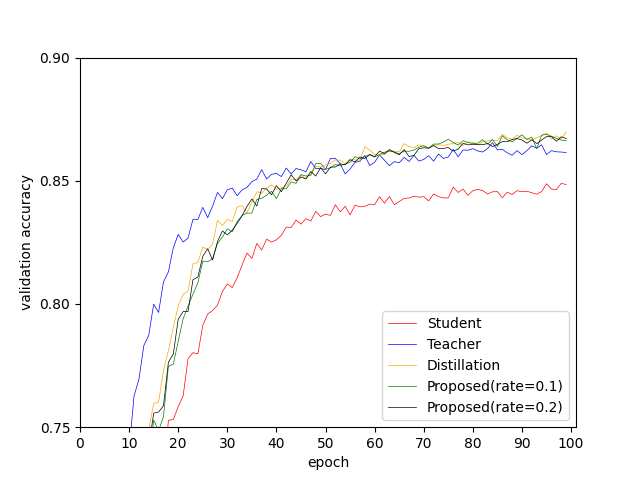
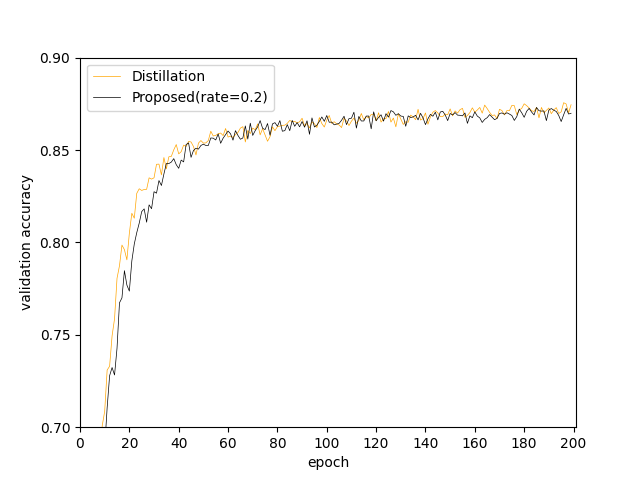
cam-distillation

diff --git a/resnet_train_cam.py b/resnet_train_cam.py
@@ -15,12 +15,12 @@ from src.kd_loss.cam_loss import CAMLoss
 import pickle
 
 def main():
-    for i in range(5):
-        cam_rate = '02'
-        epochs = 100
+    for i in range(3):
+        # cam_rate = '01'
+        epochs = 200
         batch_size = 128
-        np.random.seed(i)
-        torch.manual_seed(i)
+        np.random.seed(0)
+        torch.manual_seed(0)
         device = torch.device('cuda' if torch.cuda.is_available() else 'cpu')
         
         data_dir = './data/cifar10'
@@ -39,24 +39,24 @@ def main():
         teacher = resnet_teacher().to(device)
         student = resnet_student().to(device)
         
-        teacher.load_state_dict(torch.load('./logs/resnet/teacher/' + str(i) + '.pth')) # 変更
+        teacher.load_state_dict(torch.load('./logs/resnet/teacher/' + str(0) + '.pth')) # 変更箇所
         loss_fn = nn.CrossEntropyLoss() 
         student_hist = {'loss': [], 'accuracy': [], 'val_loss': [], 'val_accuracy': []}
         
         # teacher test
-        teacher.eval()
-        test_loss = 0.
-        test_acc = 0.
-        with torch.no_grad():
-            for (images,labels) in test_dataloader:
-                images, labels = images.to(device), labels.to(device)
-                preds, _ = teacher(images)
-                loss = loss_fn(preds, labels)
-                test_loss += loss.item()
-                test_acc += accuracy_score(labels.tolist(), preds.argmax(dim=-1).tolist())
-        test_loss /= len(test_dataloader)
-        test_acc /= len(test_dataloader)
-        print(f'test_loss: {test_loss:.3f}, test_accuracy: {test_acc:.3f}')
+        # teacher.eval()
+        # test_loss = 0.
+        # test_acc = 0.
+        # with torch.no_grad():
+        #     for (images,labels) in test_dataloader:
+        #         images, labels = images.to(device), labels.to(device)
+        #         preds, _ = teacher(images)
+        #         loss = loss_fn(preds, labels)
+        #         test_loss += loss.item()
+        #         test_acc += accuracy_score(labels.tolist(), preds.argmax(dim=-1).tolist())
+        # test_loss /= len(test_dataloader)
+        # test_acc /= len(test_dataloader)
+        # print(f'test_loss: {test_loss:.3f}, test_accuracy: {test_acc:.3f}')
         
         # train
         optim = optimizers.Adam(student.parameters())
@@ -74,16 +74,29 @@ def main():
                 images, labels = images.to(device), labels.to(device)
                 preds, student_features = student(images)
                 targets, teacher_features = teacher(images)
-        
-                student_cam = create_student_cam(student, images, labels, student_features, batch_size, device)
-                teacher_cam = create_teacher_cam(teacher, images, labels, teacher_features, batch_size, device)
                 
-                if cam_rate == '01':
+                if i == 0:   # Distillation
+                    loss = 0.5*loss_fn(preds, labels) + 0.5*T*T*soft_loss(preds, targets)
+                elif i == 1: # CAM-Distillation(rate=0.1)
+                    student_cam = create_student_cam(student, images, labels, student_features, batch_size, device)
+                    teacher_cam = create_teacher_cam(teacher, images, labels, teacher_features, batch_size, device)
                     loss = 0.5*loss_fn(preds, labels) + 0.4*T*T*soft_loss(preds, targets) + 0.1*cam_loss(student_cam, teacher_cam)
-                elif cam_rate == '02':
+                elif i == 2: # CAM-Distillation(rate=0.2)
+                    student_cam = create_student_cam(student, images, labels, student_features, batch_size, device)
+                    teacher_cam = create_teacher_cam(teacher, images, labels, teacher_features, batch_size, device)
                     loss = 0.5*loss_fn(preds, labels) + 0.3*T*T*soft_loss(preds, targets) + 0.2*cam_loss(student_cam, teacher_cam)
-                elif cam_rate == '03':
-                    loss = 0.5*loss_fn(preds, labels) + 0.2*T*T*soft_loss(preds, targets) + 0.3*cam_loss(student_cam, teacher_cam)
+                
+                
+                # if cam_rate == '01':
+                #     loss = 0.5*loss_fn(preds, labels) + 0.4*T*T*soft_loss(preds, targets) + 0.1*cam_loss(student_cam, teacher_cam)
+                # elif cam_rate == '02':
+                #     loss = 0.5*loss_fn(preds, labels) + 0.3*T*T*soft_loss(preds, targets) + 0.2*cam_loss(student_cam, teacher_cam)
+                # elif cam_rate == '03':
+                #     loss = 0.5*loss_fn(preds, labels) + 0.2*T*T*soft_loss(preds, targets) + 0.3*cam_loss(student_cam, teacher_cam)
+                # elif cam_rate == '04':
+                #     loss = 0.5*loss_fn(preds, labels) + 0.1*T*T*soft_loss(preds, targets) + 0.4*cam_loss(student_cam, teacher_cam)
+                # elif cam_rate == '05':
+                #     loss = 0.5*loss_fn(preds, labels) + 0.5*cam_loss(student_cam, teacher_cam)
                 
                 optim.zero_grad()
                 loss.backward()
@@ -96,11 +109,11 @@ def main():
             # student validation
             student.eval()
             with torch.no_grad():
-                for (images,labels) in val_dataloader:
-                    images,labels = images.to(device), labels.to(device)
+                for (images, labels) in val_dataloader:
+                    images, labels = images.to(device), labels.to(device)
                     preds, _ = student(images)
                     targets, _ = teacher(images)
-                    loss = loss_fn(preds, labels) + T*T*soft_loss(preds, targets)
+                    loss = 0.5*loss_fn(preds, labels) + 0.5*T*T*soft_loss(preds, targets)
                     val_loss += loss.item()
                     val_acc += accuracy_score(labels.tolist(), preds.argmax(dim=-1).tolist())
                 val_loss /= len(val_dataloader)
@@ -109,7 +122,14 @@ def main():
             if score <= val_acc:
                 print('save param')
                 score = val_acc
-                torch.save(student.state_dict(), './logs/resnet/cam/' + str(cam_rate) + '_' + str(i) + '.pth') # 変更箇所
+                if i == 0:
+                    torch.save(student.state_dict(), './logs/resnet/st/0.pth') 
+                elif i == 1:
+                    torch.save(student.state_dict(), './logs/resnet/cam/01_0.pth') 
+                elif i == 2:
+                    torch.save(student.state_dict(), './logs/resnet/cam/02_0.pth') 
+                    
+                # torch.save(student.state_dict(), './logs/resnet/cam/' + str(cam_rate) + '_' + str(i) + '.pth') 
             
             student_hist['loss'].append(train_loss)
             student_hist['accuracy'].append(train_acc)
@@ -118,10 +138,26 @@ def main():
 
             print(f'epoch: {epoch+1}, loss: {train_loss:.3f}, accuracy: {train_acc:.3f}, val_loss: {val_loss:.3f}, val_accuracy: {val_acc:.3f}')
             
-            with open('./history/resnet/cam/' + str(cam_rate) + '_' + str(i) + '.pickle', mode='wb') as f: # 変更箇所
-                pickle.dump(student_hist, f)
+            if i == 0:
+                with open('./history/resnet/st/0.pickle', mode='wb') as f: 
+                    pickle.dump(student_hist, f)
+            elif i == 1:
+                with open('./history/resnet/cam/01_0.pickle', mode='wb') as f: 
+                    pickle.dump(student_hist, f)
+            elif i == 2:
+                with open('./history/resnet/cam/02_0.pickle', mode='wb') as f: 
+                    pickle.dump(student_hist, f)
+                    
+            # with open('./history/resnet/cam/' + str(cam_rate) + '_' + str(i) + '.pickle', mode='wb') as f: 
+            #     pickle.dump(student_hist, f)
         
-        student.load_state_dict(torch.load('./logs/resnet/cam/' + str(cam_rate) + '_' + str(i) + '.pth')) # 変更箇所
+        # student.load_state_dict(torch.load('./logs/resnet/cam/' + str(cam_rate) + '_' + str(i) + '.pth')) 
+        if i == 0:
+            student.load_state_dict(torch.load('./logs/resnet/st/0.pth')) 
+        elif i == 1:
+            student.load_state_dict(torch.load('./logs/resnet/cam/01_0.pth')) 
+        elif i == 2:
+            student.load_state_dict(torch.load('./logs/resnet/cam/02_0.pth')) 
         test = {'acc': [], 'loss': []}
         # distillation student test
         student.eval()
@@ -139,8 +175,18 @@ def main():
         print(f'test_loss: {test_loss:.3f}, test_accuracy: {test_acc:.3f}')
         test['acc'].append(test_acc)
         test['loss'].append(test_loss)
-        with open('./history/resnet/cam/' + str(cam_rate) + '_test' + str(i) + '.pickle', mode='wb') as f: # 変更箇所
-            pickle.dump(test, f)
+        
+        # with open('./history/resnet/cam/' + str(cam_rate) + '_test' + str(i) + '.pickle', mode='wb') as f: # 変更箇所
+        #     pickle.dump(test, f)
+        if i == 0:
+            with open('./history/resnet/st/test0.pickle', mode='wb') as f: 
+                pickle.dump(test, f)
+        elif i == 1:
+            with open('./history/resnet/cam/01_test0.pickle', mode='wb') as f: 
+                pickle.dump(test, f)
+        elif i == 2:
+            with open('./history/resnet/cam/02_test0.pickle', mode='wb') as f:
+                pickle.dump(test, f)
 
 # def create_student_cam(model, images, labels, features, batch_size, device):
 #     attmap = np.array([])

diff --git a/resnet_result.py b/resnet_result.py
@@ -2,21 +2,21 @@ import pickle
 import numpy as np
 import matplotlib.pyplot as plt
 
-def main():
+def main():           
     # setting path
     student_path = './history/resnet/student/'
     teacher_path = './history/resnet/teacher/'
-    st_path = './history/resnet/st/'
-    cam01_path = './history/resnet/cam/01_'
-    cam02_path = './history/resnet/cam/02_'
+    # st_path = './history/resnet/st/'
+    # cam01_path = './history/resnet/cam/01_'
+    # cam02_path = './history/resnet/cam/02_'
     # cam03_path = './history/resnet/cam/03_'
     
     # loading history
     student_acc = load_hist(student_path, 5)
     teacher_acc = load_hist(teacher_path, 5)
-    st_acc = load_hist(st_path, 5)
-    cam01_acc = load_hist(cam01_path, 5)
-    cam02_acc = load_hist(cam02_path, 5)
+    # st_acc = load_hist(st_path, 1)
+    # cam01_acc = load_hist(cam01_path, 1)
+    # cam02_acc = load_hist(cam02_path, 1)
     # cam03_acc = load_hist(cam03_path, 5)
     
     # print test accuracy
@@ -24,24 +24,24 @@ def main():
     student_best = load_best_test(student_path, 5)   
     teacher_avg = load_avg_test(teacher_path, 5)
     teacher_best = load_best_test(teacher_path, 5)    
-    st_avg = load_avg_test(st_path, 5)
-    st_best = load_best_test(st_path, 5)    
-    cam01_avg = load_avg_test(cam01_path, 5)
-    cam01_best = load_best_test(cam01_path, 5) 
-    cam02_avg = load_avg_test(cam02_path, 5)
-    cam02_best = load_best_test(cam02_path, 5)
+    # st_avg = load_avg_test(st_path, 5)
+    # st_best = load_best_test(st_path, 5)    
+    # cam01_avg = load_avg_test(cam01_path, 5)
+    # cam01_best = load_best_test(cam01_path, 5) 
+    # cam02_avg = load_avg_test(cam02_path, 5)
+    # cam02_best = load_best_test(cam02_path, 5)
     # cam03_avg = load_avg_test(cam03_path, 5)
     # cam03_best = load_best_test(cam03_path, 5)
       
-    print('| Student             | avg: ' + str(student_avg) + ' | best: ' + str(student_best))
-    print('| Teacher             | avg: ' + str(teacher_avg) + ' | best: ' + str(teacher_best))
-    print('| Distillation        | avg: ' + str(st_avg)      + ' | best: ' + str(st_best))
-    print('| Proposed(rate=0.1)  | avg: ' + str(cam01_avg)   + ' | best: ' + str(cam01_best))
-    print('| Proposed(rate=0.2)  | avg: ' + str(cam02_avg)   + ' | best: ' + str(cam02_best))
-    # print('| Proposed(rate=0.3)  | avg: ' + str(cam03_avg)   + ' | best: ' + str(cam03_best))
+    print('| Student             | avg: ' + str(student_avg) + ' | best: ' + str(student_best) + ' |')
+    print('| Teacher             | avg: ' + str(teacher_avg) + ' | best: ' + str(teacher_best) + ' |')
+    # print('| Distillation        | avg: ' + str(st_avg)      + ' | best: ' + str(st_best) + ' |')
+    # print('| Proposed(rate=0.1)  | avg: ' + str(cam01_avg)   + ' | best: ' + str(cam01_best) + ' |')
+    # print('| Proposed(rate=0.2)  | avg: ' + str(cam02_avg)   + ' | best: ' + str(cam02_best) + ' |')
+    # print('| Proposed(rate=0.3)  | avg: ' + str(cam03_avg)   + ' | best: ' + str(cam03_best) + ' |')
     
     # plot result
-    x = np.arange(100)
+    x = np.arange(200)
     fig = plt.figure()
     fig.patch.set_facecolor('white')
     plt.xlabel('epoch')
@@ -49,15 +49,15 @@ def main():
     
     plt.plot(x, student_acc, label='Student',            linewidth=0.5, color='red')
     plt.plot(x, teacher_acc, label='Teacher',            linewidth=0.5, color='blue')
-    plt.plot(x, st_acc,      label='Distillation',       linewidth=0.5, color='orange')
-    plt.plot(x, cam01_acc,   label='Proposed(rate=0.1)', linewidth=0.5, color='green')
-    plt.plot(x, cam02_acc,   label='Proposed(rate=0.2)', linewidth=0.5, color='black')
+    # plt.plot(x, st_acc,      label='Distillation',       linewidth=0.5, color='orange')
+    # plt.plot(x, cam01_acc,   label='Proposed(rate=0.1)', linewidth=0.5, color='green')
+    # plt.plot(x, cam02_acc,   label='Proposed(rate=0.2)', linewidth=0.5, color='black')
     # plt.plot(x, cam03_acc,   label='Proposed(rate=0.3)', linewidth=0.5, color='brown')
     
-    plt.xticks(np.arange(0, 110, 10))
-    plt.yticks(np.arange(0.55, 0.95, 0.05))
-    plt.xlim(0, 101)
-    plt.ylim(0.75, 0.90)
+    plt.xticks(np.arange(0, 210, 20))
+    plt.yticks(np.arange(0, 0.95, 0.05))
+    plt.xlim(0, 201)
+    plt.ylim(0.70, 0.90)
     plt.legend()
     plt.savefig('./result/resnet_result.png')
 

diff --git a/resnet_train_kd.py b/resnet_train_kd.py
@@ -14,9 +14,9 @@ from src.kd_loss.st import SoftTargetLoss
 import pickle
 
 def main():
-    for i in range(5):
+    for i in range(1):
         print(i)
-        epochs = 100
+        epochs = 200
         batch_size = 128
         np.random.seed(i)
         torch.manual_seed(i)
@@ -30,15 +30,6 @@ def main():
         n_train = int(n_samples * 0.8)
         n_val = n_samples - n_train
         trainset, valset = random_split(trainset, [n_train, n_val])
-        
-        # data_dir = './data/covid19'
-        # transform = transforms.Compose([transforms.Resize(224), transforms.ToTensor(), transforms.Normalize(mean=[0.485, 0.456, 0.406],std=[0.229, 0.224, 0.225])])
-        # dataset = datasets.ImageFolder(root=data_dir, transform=transform)
-        # n_samples = len(dataset)
-        # n_val = int(n_samples * 0.2)
-        # n_test = n_val
-        # n_train = n_samples - n_val - n_test
-        # trainset, valset, testset = random_split(dataset, [n_train, n_val, n_test])
         
         train_dataloader = DataLoader(trainset, batch_size=batch_size, shuffle=True, drop_last=True, num_workers=8)
         val_dataloader = DataLoader(valset, batch_size=batch_size, shuffle=False)

diff --git a/resnet_train.py b/resnet_train.py
@@ -18,7 +18,7 @@ def main():
     for i in range(1):
         print(i)
         model_size = 'teacher'
-        epochs = 100
+        epochs = 200
         batch_size = 128
         torch.manual_seed(i)
         np.random.seed(i)
@@ -43,8 +43,6 @@ def main():
             model = resnet_teacher().to(device)
         elif model_size == 'student':
             model = resnet_student().to(device)
-        elif model_size == 'cnn':
-            model = SampleModel().to(device)
 
         optim = optimizers.Adam(model.parameters())
         loss_fn = nn.CrossEntropyLoss()
@@ -107,7 +105,7 @@ def main():
             pickle.dump(history, f)
 
         # model test
-        model.load_state_dict(torch.load('./logs/resnet/' + str(model_size) + '/' + str(i) + '_param.pth'))
+        model.load_state_dict(torch.load('./logs/resnet/' + str(model_size) + '/' + str(i) + '.pth'))
         model.eval()
         
         test = {'acc': [], 'loss': []}
